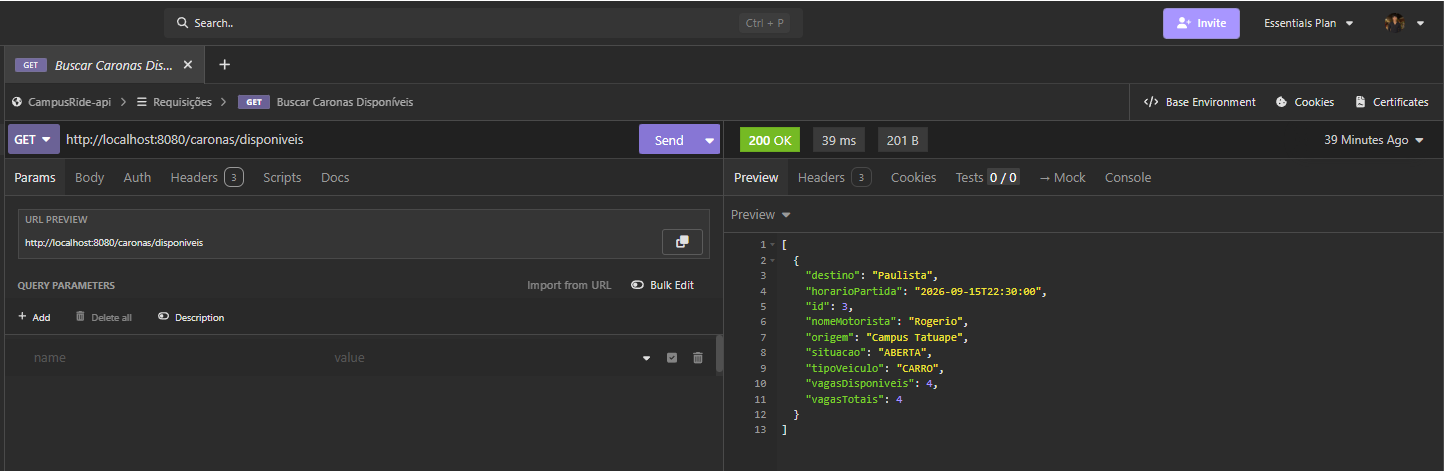
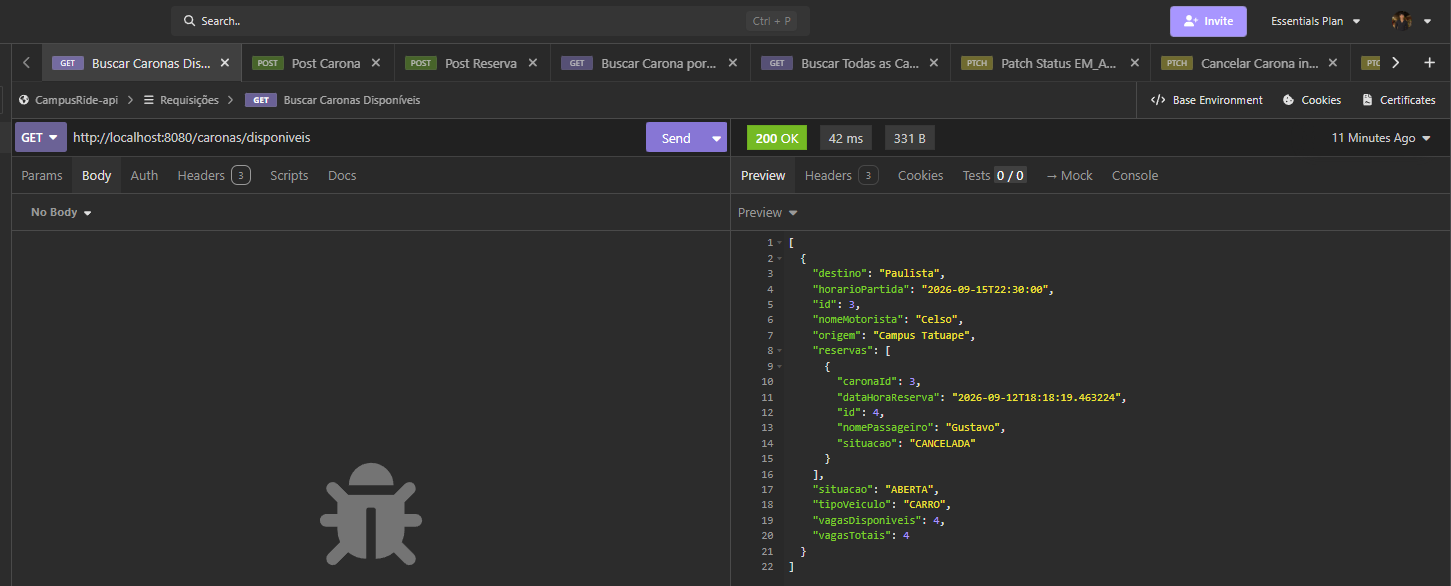
docs: alteracoes nos arquivos png, adicionando novos endpoints no README.md e atualizando o insomnia_collection.yaml

diff --git a/README.md b/README.md
@@ -41,6 +41,8 @@ Abaixo estão as rotas disponíveis no sistema. Para uma visualização completa
 | **GET** | `/caronas/disponiveis` | Retorna estritamente as caronas com situação `ABERTA` | `200 OK` |
 | **GET** | `/caronas/{id}` | Busca os detalhes de uma carona e a lista de seus passageiros | `200 OK` |
 | **PATCH** | `/caronas/{id}/cancelar` | Cancela a carona inteira (e suas reservas em cascata) | `200 OK` |
+| **PATCH** | `/caronas/{id}/iniciar` | Altera a situação da carona para `EM_ANDAMENTO` | `200 OK` |
+| **PATCH** | `/caronas/{id}/concluir` | Altera a situação da carona para `CONCLUIDA` | `200 OK` |
 
 ### Reservas
 | Método | Rota | Descrição | Status de Sucesso |
